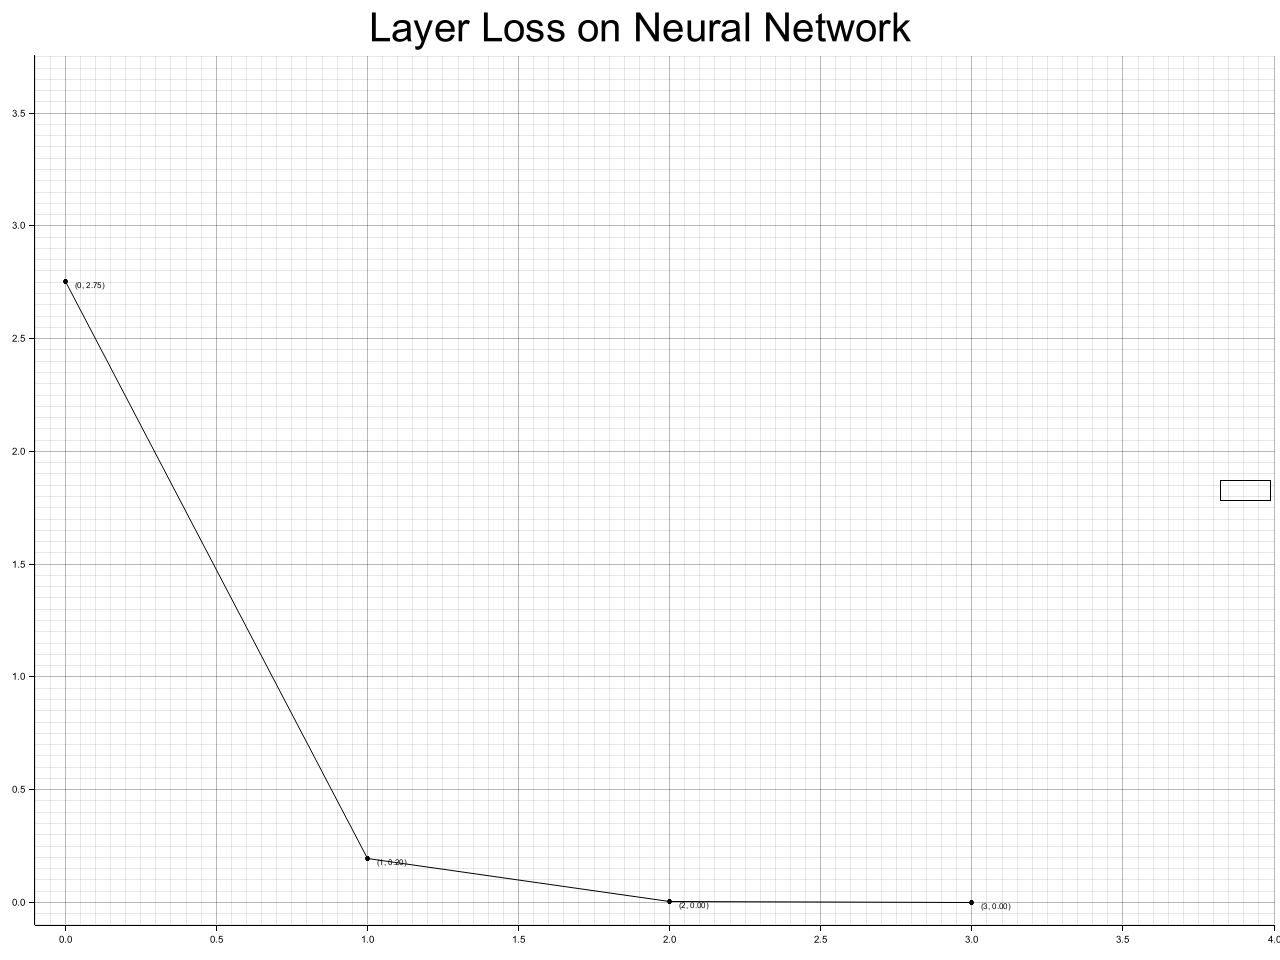
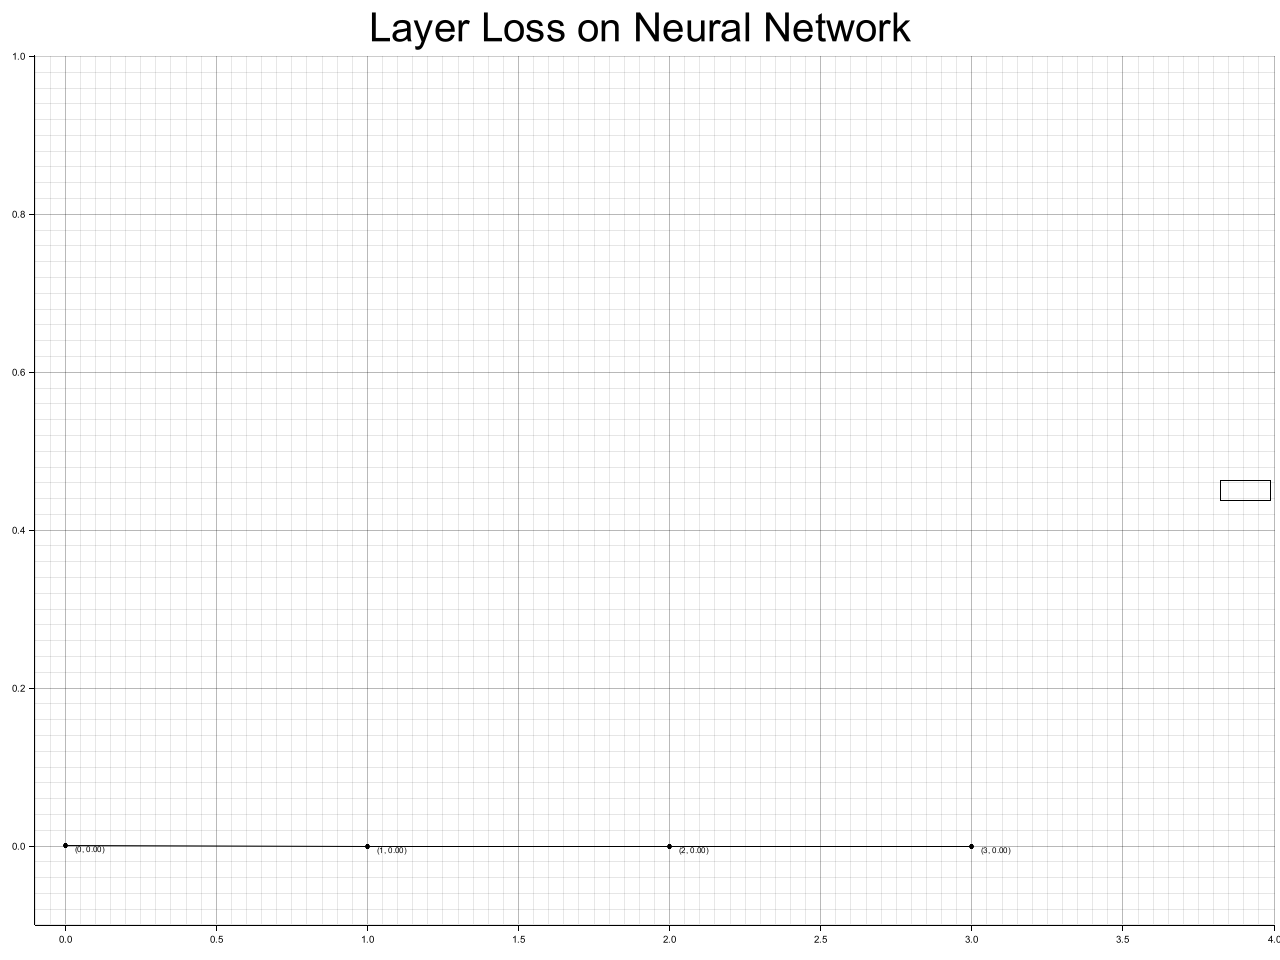
Fixed placement of batch loop so it actually makes a difference now

Changed region(s): [[0.0, 0.1562, 1.0, 0.625], [0.0312, 0.6562, 1.0, 0.9688], [0.0312, 0.0625, 1.0, 0.125]]

diff --git a/src/network/network.rs b/src/network/network.rs
@@ -176,7 +176,7 @@ impl Network{
         let mut loss: f32;
         for _ in 0..epochs {
             loss = 0.0;
-            for i in 0..(train_in.len() / self.batch_size) + 1{
+            for i in 0..(train_in.len() / self.batch_size){
 
                 input_batch = self.get_batch(&train_in, i);
                 let inputs = input_batch.to_param_2d();
@@ -198,7 +198,6 @@ impl Network{
                 }
             }
             self.loss_train.push(loss / (ITERATIONS_PER_EPOCH * train_out.len()) as f32);
-            
         }
         self.loss = self.loss_train[self.loss_train.len()-1];
         println!("Trained to a loss of {:.2}%", self.loss * 100.0);
@@ -217,6 +216,7 @@ impl Network{
                 break;
             }
         }
+        //println!("{:?}", res);
         Box::new(res)
     }
 

diff --git a/src/network/layer/dense.rs b/src/network/layer/dense.rs
@@ -36,6 +36,8 @@ impl Layer for Dense{
     ///Does Back Propegation according to simple Dense network rules
     ///Finds the error of the previous layer and returns what the updated weights and biases should
     ///be in that layer, updates the gradients and errors to move backwards once
+    ///
+    ///Uses Adam optimization algorithm!
     fn backward(&mut self, inputs: &Matrix, gradients: &Matrix, errors: &Matrix, layer_prev: &Matrix, layer_prev_bias: &Matrix) -> (Matrix, Matrix, Matrix, Matrix){
         let mut gradients_mat = gradients.clone().dot_multiply(&errors).map(&|x| x * self.learning_rate);
         let new_layer_prev = layer_prev.clone() + &(gradients_mat.clone() * &self.data.clone().transpose());

diff --git a/src/main.rs b/src/main.rs
@@ -7,7 +7,7 @@ fn main() -> Result<(), Box<dyn Error>> {
     let inputs: Vec<Vec<f32>> = vec![vec![0.0,0.0],vec![1.0,0.0],vec![0.0,1.0], vec![1.0,1.0]];
     let outputs: Vec<Vec<f32>> = vec![vec![0.0],vec![1.0],vec![1.0], vec![0.0]];
 
-    let mut new_net = Network::new(16);
+    let mut new_net = Network::new(2);
 
     new_net.add_layer(LayerTypes::DENSE(2, Activations::SIGMOID, 0.01));
     new_net.add_layer(LayerTypes::DENSE(3, Activations::SIGMOID, 0.01));
@@ -18,7 +18,7 @@ fn main() -> Result<(), Box<dyn Error>> {
 
     new_net.compile();
 
-    new_net.fit(inputs, outputs, 100);
+    new_net.fit(inputs, outputs, 1000);
 
     //let mut new_net = Network::load("best_network.json");
     
